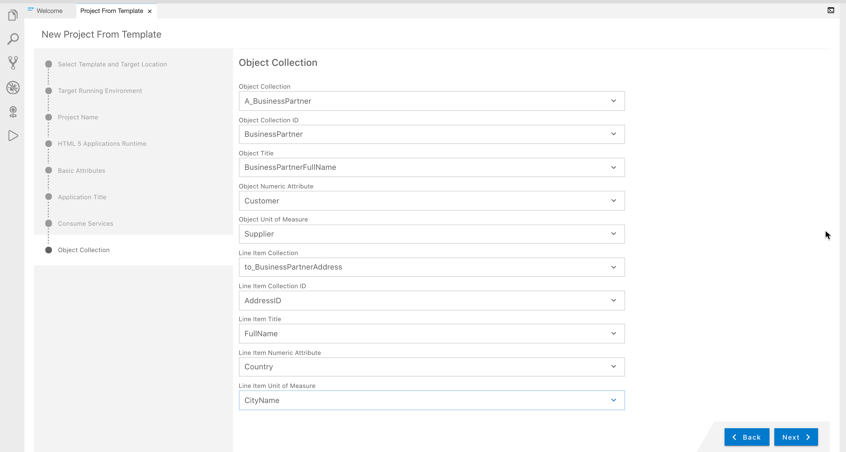
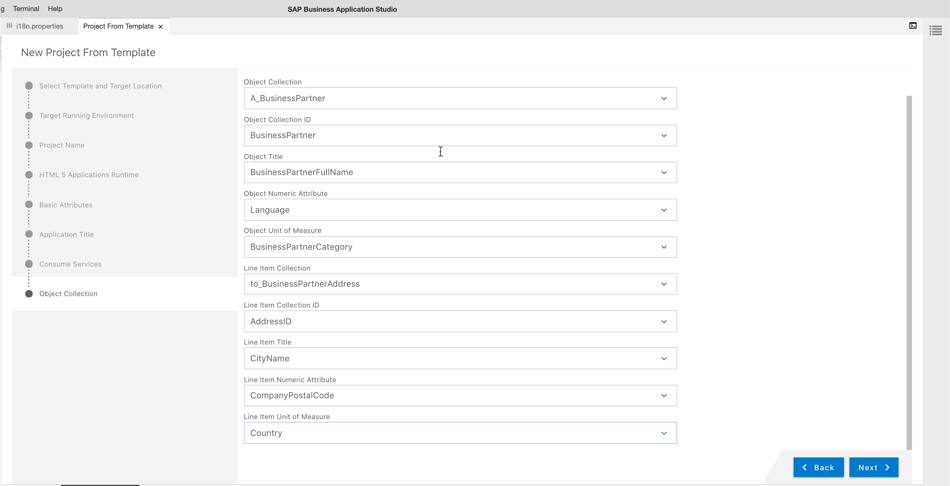
Updating develop app

diff --git a/mission/create-application/develop/README.md b/mission/create-application/develop/README.md
@@ -26,24 +26,25 @@ In this section, we would describe steps to develop a cloud application using SA
    ![Create DevSpace](./images/CreateDevSpace.png)
   
 8. Once the devspace is created, open it.
-9. In the tabs, click on View-> Select “Find Command”.
-10. Search for “CF Login”.
-11. Select for “CF: Login on to Cloud Foundry”.
+9. In the next step, we will login to Cloud Foundry in *Business Application Studio*, so let us copy the needed parameters in a text editor of your choice. 
+10. Switch to the SAP Cloud Platform tab and click on 'Overview' of the sub-account. Copy the API Endpoint and 'Org Name' into a text editor of your choice. 
+
+    ![copy Cloud Data](./images/copyCloudData.png)
+
+11. Choose 'Spaces' and write down the space name as well to a text editor of your choice. 
+
+    ![copy Space Name](./images/copySpaceName.png)
+ 
+12. In the tabs, click on View-> Select “Find Command”.
+13. Search for “CF Login” and select “CF: Login on to Cloud Foundry”.
 
     ![Login to CF](./images/loginToCF.png)
     
-12. Enter CF API endpoint or take the default suggested API endpoint. You can find the API endpoint of your region by logging into your SAP Cloud Platform account and copy the API Endpoint. Also write down the 'Org Name' into a text editor of your choice which is needed for the next step. 
-
-    ![copy Cloud Data](./images/copyCloudData.png)
-    
-13. Choose 'Spaces' and write down the space name to a text editor of your choice. 
-
-    ![copy Space Name](./images/copySpaceName.png)
-     
-14. Enter “Email” and “Password” when prompted.
-15. Select your Cloud Foundry "Org" which you have noted down in step 11. 
-16. Select the space name which you have noted down in step 12. Once you have selected the Org and Space, you would login to Cloud Foundry in SAP Business Application Studio.
-17. Now we have successfully created a Dev workspace and pointed to our desired Cloud Platform "Org" and "Space".
+14. Enter CF API endpoint which you copied in step 10 or take the default suggested API endpoint.     
+15. Enter your cloud platform account “Email” and “Password” when prompted.
+16. Select your Cloud Foundry "Org" which you have noted down in step 10. 
+17. Select the space name which you have noted down in step 11. Once you have selected the Org and Space, you would login to Cloud Foundry in SAP Business Application Studio.
+18. Now we have successfully created a workspace and pointed to our desired Cloud Platform "Org" and "Space".
 
 ### Develop the application from project template
 
@@ -84,13 +85,13 @@ In this section, we would describe steps to develop a cloud application using SA
      - Select drop-down Object Collection to “A_BusinessPartner”.
      - Select drop-down Object Collection ID to “BusinessPartner”.
      - Select drop-down Object Title to “BusinessPartnerFullName”.
-     - Select drop-down Object Numeric Attribute to “Customer”.
-     - Select drop-down Object Unit of Measure to “Supplier”.
+     - Select drop-down Object Numeric Attribute to “Language”.
+     - Select drop-down Object Unit of Measure to “BusinessPartnerCategory”.
      - Select drop-Down Line Item Collection to “to_BusinessPartnerAddress”.
      - Select drop-down Line Item Collection ID to “AddressID”.
-     - Select drop-down Line Item Title to “Full Name”.
-     - Select drop-down Line Item Numeric Attribute to “Country”.
-     - Select drop-down Line Item Unit of Measure to “CityName”.
+     - Select drop-down Line Item Title to “CityName”.
+     - Select drop-down Line Item Numeric Attribute to “CompanyPostalCode”.
+     - Select drop-down Line Item Unit of Measure to “Country”.
      - Click "Next" and "Finish" to finish the project creation.
 
     ![Object Collection](./images/ObjectCollection.png)
@@ -99,5 +100,13 @@ In this section, we would describe steps to develop a cloud application using SA
 
     ![Object Collection](./images/OpenWorkspace.png)
     
+### Optional Step: Adding Internationalization to your project
+
+1. If you want your generated project to have meaningful titles and column names, you can change the default i18n file to any language file you want.
+2. In the opened workspace with your project, navigate to project folder **webapp**, then to folder **i18n** and open the file i18n.properties.
+3. As a sample content, we have provided you a sample i18n.properties in ![Sample i18n](./images/i18n.properties).
+4. Replace the contents of the i18n file with our sample content.
+5. You will see the customized column headers once we test the application in the next step. 
+
 ### Result
 You have now configured a development workspace and created a HTML5 Application successfully.
